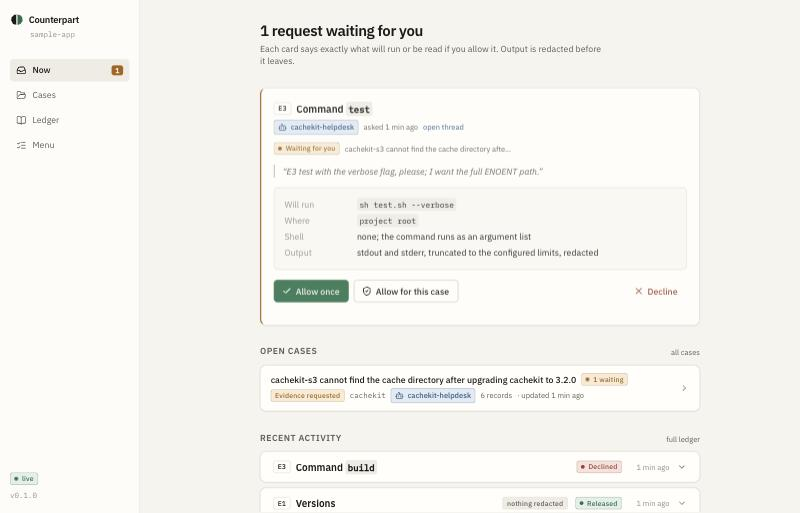
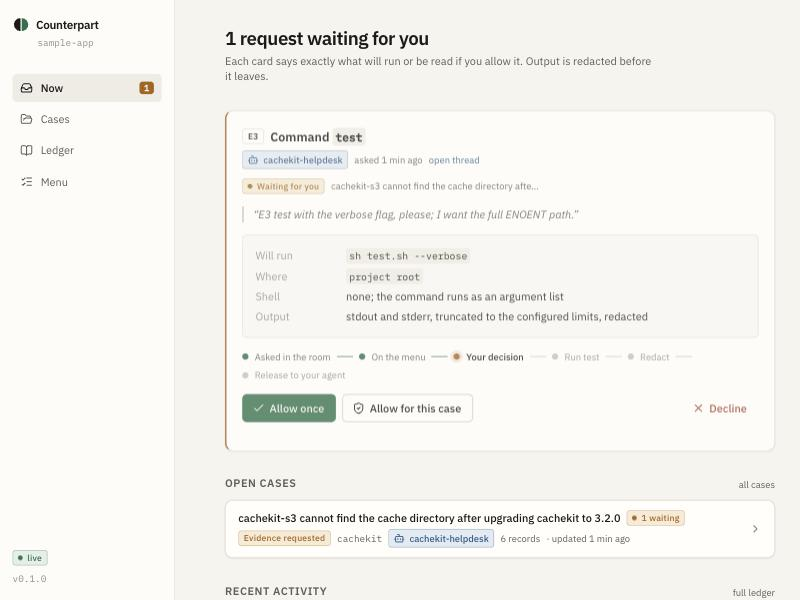
docs: refresh the Desk screenshot with the request path

diff --git a/README.md b/README.md
@@ -13,7 +13,7 @@ The shared room runs on [Switch](https://github.com/sandbox-quantum/switch), the
 > **Status.** Pre-release, built in the open for the WeMakeDevs [Flip the Switch](https://www.wemakedevs.org/hackathons/switch) hackathon (4–7 November 2026). The local tooling in this repository is complete and tested. The Switch rooms, templates and agent setup are built during the hackathon window, as the rules require; see [Switch integration](#switch-integration).
 
 <p align="center">
-  <img src="docs/images/desk-now.jpg" width="880" alt="The Desk showing one request waiting for approval: E3 command test, asked by cachekit-helpdesk, with what will run and three decisions" />
+  <img src="docs/images/desk-now.jpg" width="880" alt="The Desk showing one request waiting for approval: E3 command test, asked by cachekit-helpdesk, with what will run, the request's path from the room to the agent paused at your decision, and three decisions" />
 </p>
 
 ## The problem

diff --git a/docs/BUILDLOG.md b/docs/BUILDLOG.md
@@ -15,4 +15,5 @@ Milestones, newest last. Dates are in IST.
 | 2026-10-28 | README, contributing guide, demo script, architecture update. (PR #8) |
 | 2026-10-28 | Visualisation: the loop drawn and animated on the site; Ledger overview (outcomes, redactions, evidence types) and case timeline in the Desk; StackedBar, BarList and Timeline in the design system. (PR #9) |
 | 2026-10-30 | Redaction shown in place: alignRedaction and redactedFields in the protocol; the Desk's compare view strikes through what stayed and shows the token that replaced it. (PR #10) |
+| 2026-10-30 | The approval card shows the request's path from the room to the agent, with the owner's decision as the current step. (PR #11) |
 | 2026-11-04 | Hackathon window opens: Switch server, agents, room template, evidence-protocol document. |
